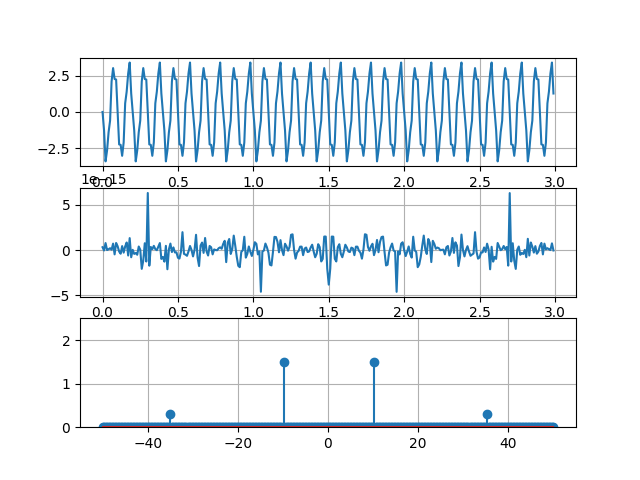
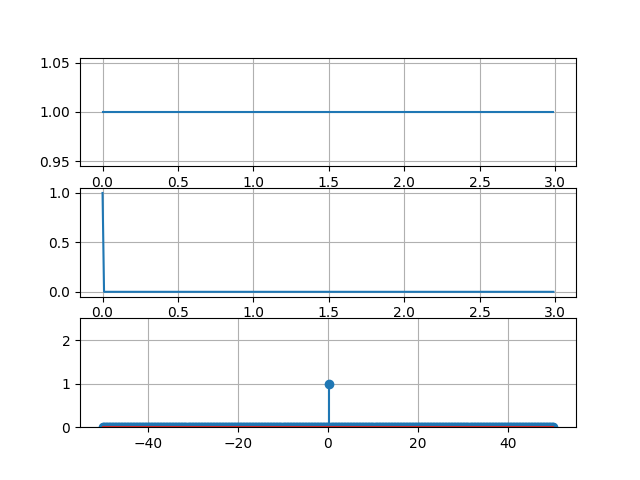
mod signal function

diff --git a/fast_fourier_transform2.py b/fast_fourier_transform2.py
@@ -3,17 +3,23 @@ import matplotlib.pyplot as plt
  
 begintime = -np.pi
 endtime = np.pi
-samplingfreq = 4
+samplingfreq = 40
 samplinginterval = 1 / samplingfreq
 timepoints = np.arange(begintime, endtime, samplinginterval)
 num_samples = len(timepoints)
 print(f"the number of samples: {num_samples}") # 샘플의 갯수
 
 # create signal
-signal = timepoints - timepoints + 1
+# signal = timepoints - timepoints + 1
+signal = np.ones(num_samples)
+first = int(num_samples/3)
+signal[:first] = 0
+print(signal)
+signal[first*2:] = 0
+print(signal)
  
 # Discrete Fourier transform with Fast Fourier Transform
-fft = np.fft.fft(signal) / len(timepoints) # normalize
+fft = np.fft.fft(signal)
 print(f"fft: {fft[:10]}")
  
 fft_magnitude = abs(fft)
@@ -31,15 +37,16 @@ axis[0].grid()
 # Draw the fft in real part
 axis[1].set_title("the real part")
 axis[1].set_xlabel("frequency")
-real_part = sorted(fft.real)
-axis[1].plot(timepoints, real_part)
+real_part = fft.real
+freq = np.fft.fftfreq(num_samples)
+axis[1].plot(freq, fft)
 axis[1].grid()
 
 # Draw the fft_magnitude
 axis[2].set_title("fft_magnitude")
 axis[2].set_xlabel("frequency")
 freq = np.fft.fftfreq(num_samples)
-axis[2].plot(timepoints, fft_magnitude)
+axis[2].plot(freq, fft_magnitude)
 axis[2].grid()
  
 plt.savefig("savefig_default2.png")

diff --git a/fast_fourier_transform.py b/fast_fourier_transform.py
@@ -9,6 +9,7 @@ f2 = 10
 # 35Hz를 갖는 0.6 진폭의 신호와 10Hz를 갖는 3 진폭 신호를 생성한 뒤,
 # 두 신호를 더하여 설명에 사용할 신호를 생성한다.
 signal = 0.6 * np.sin(2 * np.pi * f1 * t) + 3 * np.cos(2 * np.pi * f2 * t + np.pi/2)
+signal = t - t + 1
  
 # Fourier transform
 fft = np.fft.fft(signal) / len(signal)  #  반환값을 '양의 영역 다음에 음의 영역 순서'로 반환한다.
